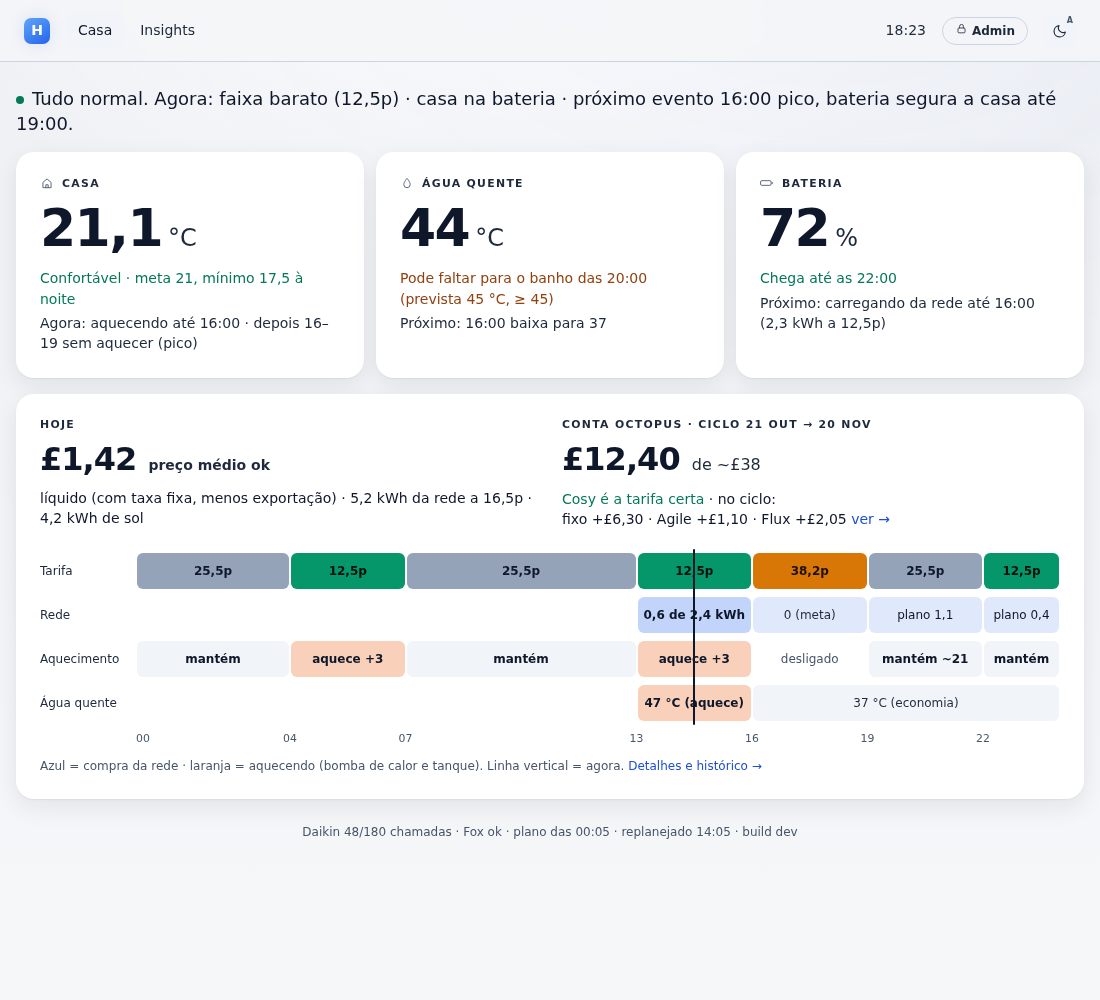
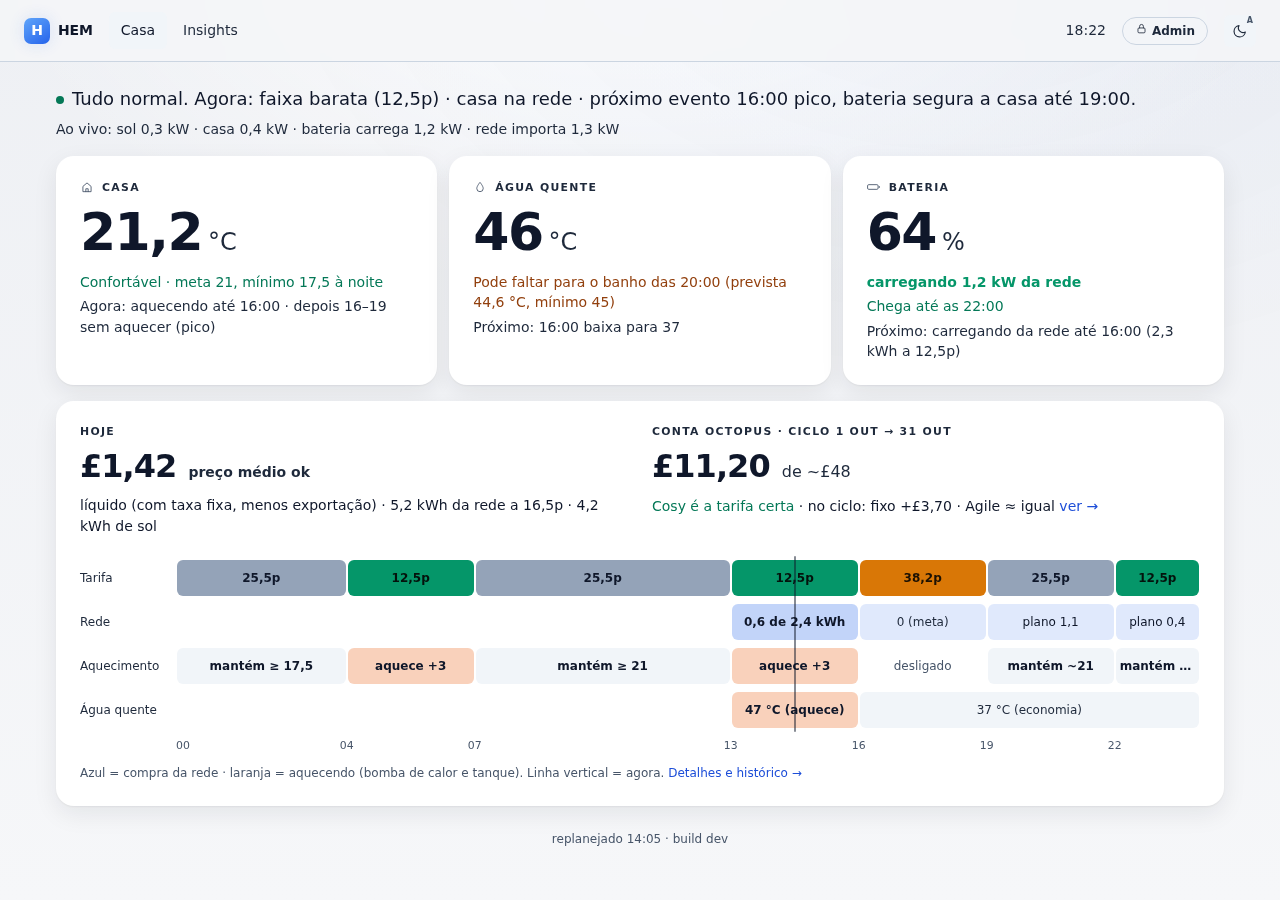
feat(ui): Home live battery flow + Agora line (#879) (#891)
* feat(ui): Home live battery flow + Agora line (#879)

* fix(ui): battery flow uses the load balance, stale suffix, words in Agora row (#879)

* fix(ui): rename Home live row prefix to 'Ao vivo:' (#879)

---------

diff --git a/ui/src/components/home/simple/logic.ts b/ui/src/components/home/simple/logic.ts
@@ -386,7 +386,11 @@ export function buildStatus({ now, fronts }: StatusCtx): string {
 }
 
 // ------------------------------------------------------------------ tiles
-export interface TileText { value: string | null; unit: string; meaning: string; next: string; tone: "ok" | "warn" | "bad" | "dim" }
+export interface TileText {
+  value: string | null; unit: string; meaning: string; next: string; tone: "ok" | "warn" | "bad" | "dim";
+  /** Live flow line (Bateria tile only), shown between the headline and `meaning`. */
+  flow?: string; flowTone?: "charge" | "discharge" | "idle";
+}
 
 export function casaTile(now: CockpitNow, fronts: PlanFrontsResponse | null): TileText {
   const h = fronts?.heating && !fronts.heating.error ? fronts.heating : null;
@@ -565,7 +569,69 @@ export function bateriaTile(now: CockpitNow, fronts: PlanFrontsResponse | null):
     else if (r.kind === "empty") { meaning = `Chega até as ${r.at}`; tone = "warn"; }
     else if (r.at) { meaning = `Chega até as ${r.at}`; tone = "ok"; }
   }
-  return { value: soc != null ? fmt(soc, 0) : null, unit: "%", meaning, next: nextCharge(b, tariff, nowMs, away), tone };
+  const fl = batteryFlow(now.state);
+  const stale = agoraStale(now);   // no present tense on stale data
+  return {
+    value: soc != null ? fmt(soc, 0) : null, unit: "%", meaning, next: nextCharge(b, tariff, nowMs, away), tone,
+    ...(fl ? { flow: fl.text + stale, flowTone: fl.tone } : {}),
+  };
+}
+
+type FlowState = {
+  battery_kw?: number | null; grid_kw?: number | null; solar_kw?: number | null; load_kw?: number | null;
+} | null | undefined;
+const FLOW_DEAD_BAND_KW = 0.05;
+const SRC_MIN_KW = 0.1;
+
+/** Live battery flow in words (pt-BR), from the power balance. battery_kw > 0 =
+ *  charging; grid_kw > 0 = import, < 0 = export. Sun available to the battery is
+ *  the PV surplus after the house load. null when the reading is absent. */
+export function batteryFlow(s: FlowState): { text: string; tone: "charge" | "discharge" | "idle" } | null {
+  const b = s?.battery_kw;
+  if (b == null || !Number.isFinite(b)) return null;
+  if (Math.abs(b) < FLOW_DEAD_BAND_KW) return { text: "parada", tone: "idle" };
+  const kw = fmt(Math.abs(b), 1);
+  const grid = s?.grid_kw ?? 0;
+  const surplus = Math.max(0, (s?.solar_kw ?? 0) - (s?.load_kw ?? 0));
+  if (b > 0) {
+    const fromSun = Math.min(b, surplus);
+    const fromGrid = Math.max(0, Math.min(b - fromSun, grid));
+    const src = fromSun >= SRC_MIN_KW && fromGrid >= SRC_MIN_KW ? " do sol e da rede"
+      : fromGrid >= SRC_MIN_KW ? " da rede"
+      : fromSun > 0 ? " do sol" : "";
+    return { text: `carregando ${kw} kW${src}`, tone: "charge" };
+  }
+  const toGrid = Math.max(0, -grid - surplus);
+  return { text: `descarregando ${kw} kW para ${toGrid >= SRC_MIN_KW ? "a rede" : "a casa"}`, tone: "discharge" };
+}
+
+/** House power balance, one row of phrases. bateria / rede use WORDS instead of
+ *  signs (carrega / descarrega, importa / exporta) so the legend is visible on a
+ *  phone; a zero reads "bateria 0,0 kW". A null figure is hidden. The battery kW
+ *  also appears in the Bateria tile flow line: the one accepted duplicate (the
+ *  tile is the battery detail, this row is the house balance; DESIGN.md log). */
+export function agoraParts(now: CockpitNow): string[] {
+  const s = now.state;
+  const out: string[] = [];
+  const dir = (n: number, pos: string, neg: string) => {
+    const r = Math.round(Math.abs(n) * 10) / 10;
+    return r === 0 ? "0,0" : `${n > 0 ? pos : neg} ${fmt(r, 1)}`;
+  };
+  if (s.solar_kw != null) out.push(`sol ${fmt(Math.max(0, s.solar_kw), 1)} kW`);
+  if (s.load_kw != null) out.push(`casa ${fmt(Math.max(0, s.load_kw), 1)} kW`);
+  if (s.battery_kw != null) out.push(`bateria ${dir(s.battery_kw, "carrega", "descarrega")} kW`);
+  if (s.grid_kw != null) out.push(`rede ${dir(s.grid_kw, "importa", "exporta")} kW`);
+  return out;
+}
+export const AGORA_TITLE = "bateria: carrega / descarrega · rede: importa / exporta";
+const FOX_STALE_S = 300;
+/** " (há N min)" when the Fox reading is older than 5 min, else "". */
+export function agoraStale(now: CockpitNow): string {
+  const age = now.freshness?.fox?.age_s;
+  const stale = now.freshness?.fox?.stale === true;
+  if (age == null || !(age > FOX_STALE_S)) return stale && age != null ? ` (há ${Math.max(1, Math.floor(age / 60))} min)` : "";
+  const min = Math.floor(age / 60);
+  return min >= 60 ? ` (há ${Math.floor(min / 60)} h)` : ` (há ${min} min)`;
 }
 
 export function nextCharge(

diff --git a/ui/src/routes/landing.tsx b/ui/src/routes/landing.tsx
@@ -4,12 +4,12 @@ import { getCockpitNow, getPlanFronts, getStatusAlerts } from "../lib/endpoints"
 import { Icon } from "../components/common/Icon";
 import { Spinner } from "../components/common/Spinner";
 import { computeChips, type Chip } from "../components/shell/AlertStrip";
-import { StatusLine } from "../components/home/simple/StatusLine";
+import { StatusLine, AgoraLine } from "../components/home/simple/StatusLine";
 import { Tile } from "../components/home/simple/Tile";
 import { MoneyCard } from "../components/home/simple/MoneyCard";
 import { ModeBox } from "../components/home/simple/ModeBox";
 import {
-  buildStatus, casaTile, aguaTile, bateriaTile, holidayFlags, footerLine,
+  buildStatus, casaTile, aguaTile, bateriaTile, agoraParts, agoraStale, holidayFlags, footerLine,
 } from "../components/home/simple/logic";
 import { publishFreshness, publishCockpitConn } from "../lib/freshness";
 import { buildSha } from "../lib/api";
@@ -24,7 +24,10 @@ const MOCK = import.meta.env.DEV && new URLSearchParams(location.search).get("mo
 // /plan/fronts (60 s) and /status/alerts (60 s); /whoami is fetched by the app
 // shell. No chart library is imported on this route.
 export default function Landing() {
-  const now = usePoll(getCockpitNow, 10_000);
+  const now = usePoll(async () => {
+    if (import.meta.env.DEV && MOCK) return (await import("../lib/mock/cockpit")).MOCK_COCKPIT;
+    return getCockpitNow();
+  }, 10_000);
   const fronts = usePoll(async () => {
     if (import.meta.env.DEV && MOCK) return (await import("../lib/mock/planFronts")).MOCK_PLAN_FRONTS;
     return getPlanFronts();
@@ -64,6 +67,7 @@ export default function Landing() {
     <div class="hs">
       <h1 class="sr-only">Casa</h1>
       <StatusLine chips={chips} text={buildStatus({ now: data, fronts: f })} />
+      <AgoraLine parts={agoraParts(data)} stale={agoraStale(data)} />
 
       <div class="hs-tiles">
         <Tile icon={<Icon name="house" size={14} />} title="Casa" t={casaTile(data, f)} />

diff --git a/ui/src/components/home/simple/StatusLine.tsx b/ui/src/components/home/simple/StatusLine.tsx
@@ -1,5 +1,6 @@
 import { Icon } from "../../common/Icon";
 import type { Chip } from "../../shell/AlertStrip";
+import { AGORA_TITLE } from "./logic";
 
 // One sentence. If anything is wrong the alert chips REPLACE it (same tones as
 // the shell AlertStrip: bad / warn).
@@ -20,6 +21,23 @@ export function StatusLine({ chips, text }: { chips: Chip[]; text: string }) {
     <p class="hs-status" aria-live="polite">
       <span class="hs-dot" aria-hidden="true" />
       {text}
+    </p>
+  );
+}
+
+// "Agora": live house balance, one row (wraps on phones).
+export function AgoraLine({ parts, stale }: { parts: string[]; stale: string }) {
+  if (parts.length === 0) return null;
+  return (
+    <p class="hs-agora" title={AGORA_TITLE}>
+      Ao vivo:{" "}
+      {parts.map((t, i) => (
+        <span key={t}>
+          {i > 0 && " · "}
+          <span class="hs-agora-i">{t}</span>
+        </span>
+      ))}
+      {stale}
     </p>
   );
 }

diff --git a/ui/src/styles/home-simple.css b/ui/src/styles/home-simple.css
@@ -83,6 +83,13 @@
 .hs-tile--dim .hs-meaning { color: var(--text-dim); }
 .hs-muted { color: var(--text-dim); font-size: var(--font-sm); }
 
+.hs-agora { margin: calc(var(--space-2) * -1) 0 0; font-size: var(--font-sm); color: var(--text-dim); font-variant-numeric: tabular-nums; line-height: 1.5; }
+.hs-agora-i { white-space: nowrap; }
+.hs-flow { margin: var(--space-3) 0 0; font-size: var(--font-sm); line-height: 1.45; font-weight: 600; color: var(--text-dim); }
+.hs-flow--charge { color: var(--batt); }
+.hs-flow--discharge { color: var(--text); }
+.hs-flow + .hs-meaning { margin-top: var(--space-1); }
+
 /* ── money ───────────────────────────────────────────────────────────────── */
 .hs-money-grid {
   display: grid;

diff --git a/ui/src/lib/mock/cockpit.ts b/ui/src/lib/mock/cockpit.ts
@@ -1,0 +1,16 @@
+import type { CockpitNow } from "../types";
+
+// Dev-only fixture for GET /api/v1/cockpit/now, reachable ONLY via `?mock=1`
+// (see landing.tsx). Same instant as the plan/fronts mock: 14:30 local (BST),
+// cheap band, battery charging from the grid at 1.2 kW.
+export const MOCK_COCKPIT: CockpitNow = {
+  now_utc: "2026-10-07T13:30:00Z",
+  planner_tz: "Europe/London",
+  state: {
+    soc_pct: 64, soc_kwh: 5.8, solar_kw: 0.3, load_kw: 0.4, grid_kw: 1.3, battery_kw: 1.2,
+    tank_c: 46, indoor_c: 21.2, lwt_c: 30, daikin_mode: "heating",
+  },
+  current_slot: { price_import_p: 12.49, price_export_p: 15, fox_mode: "ForceCharge", kind: "cheap" },
+  next_transition: null,
+  freshness: { fox: { age_s: 20, fetched_at_utc: "2026-10-07T13:29:40Z", stale: false } },
+};

diff --git a/ui/src/components/home/simple/Tile.tsx b/ui/src/components/home/simple/Tile.tsx
@@ -9,6 +9,7 @@ export function Tile({ icon, title, t }: { icon: ComponentChildren; title: strin
         <span class="hs-num">{t.value ?? "—"}</span>
         {t.value != null && <span class="hs-unit">{t.unit}</span>}
       </div>
+      {t.flow && <p class={`hs-flow hs-flow--${t.flowTone ?? "idle"}`}>{t.flow}</p>}
       <p class="hs-meaning">{t.meaning}</p>
       {t.next && <p class="hs-next">{t.next}</p>}
     </section>

diff --git a/DESIGN.md b/DESIGN.md
@@ -164,6 +164,7 @@ rationale + the rules. When they disagree, fix the drift, don't fork the values.
 | 2026-07-02 | `--cool` (chart-ramp cool end) + `--text-on-accent` tokens; every `var(--x, #literal)` fallback stripped (#621) | 7 fallbacks carried WRONG colors (amber/cyan mixups); light theme gained missing `--neg`/`--thermal`/`--cool` |
 | 2026-07-02 | Motion sub-scale `--dur-fast/med/slow`; `--space-0 2px`; breakpoint scale documented (#595) | Converge the 52 ad-hoc durations + chip micro-spacing on tokens |
 | 2026-10-28 | UI epic #879: Home/Insights/Settings v2, band strip instead of price curves, `--on-cheap/--on-standard/--on-peak` tokens, `--peak-export` removed, Journal out of the nav, Agile-era copy and ~60 dead UI files/wrappers deleted | Cosy is a 3-band tariff; the old charts were percentile-based and confusing |
+| 2026-10-29 | Home: battery kW shown in the Bateria tile AND in the "Ao vivo:" balance row (accepted exception to "every number once") | Tile = battery detail (SoC, flow in words, source); row = house balance (sol / casa / bateria / rede). Owner feedback: needed to know if the battery is charging |
 
 ## Gap status (2026-07-02 re-audit — was "Open Gaps", 2026-06-16)
 All gaps re-verified against source on 2026-07-02 (4-sweep conformity audit):
